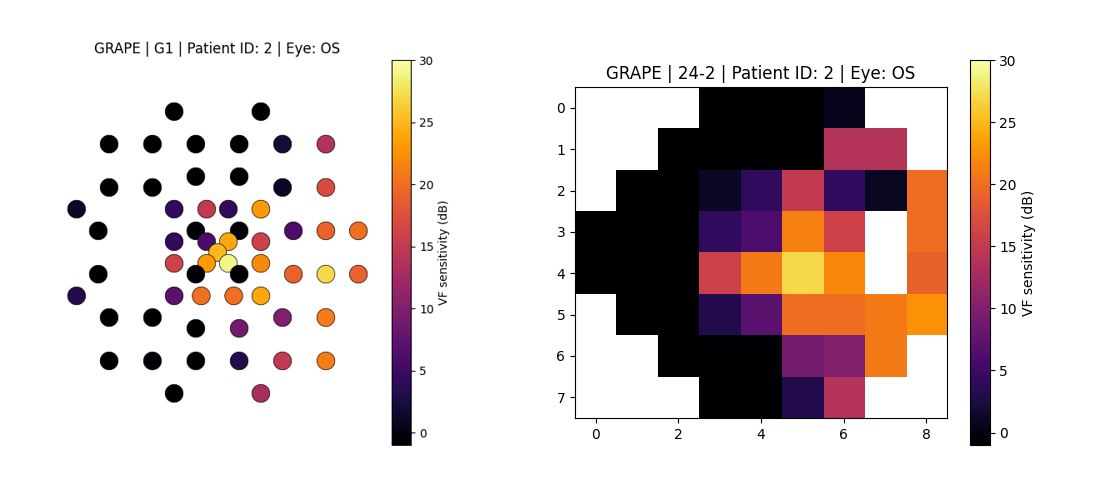
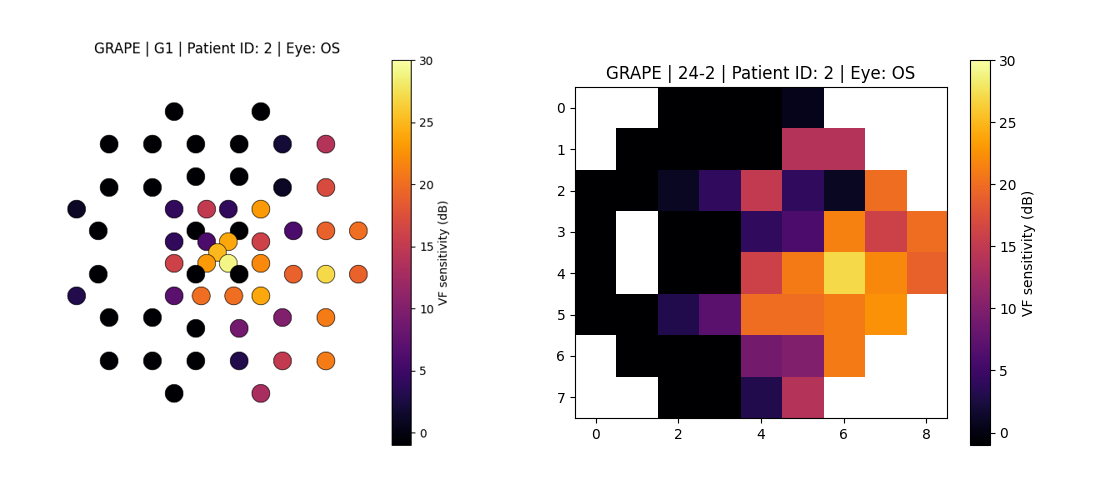
fixed laterality

Changed region(s): [[0.5255, 0.15, 0.8655, 0.84]]

diff --git a/vf_test_visualizer.py b/vf_test_visualizer.py
@@ -34,10 +34,20 @@ def visualize_vf(row_id):
     eye = entry.get("Laterality", "NA")
     img = entry.get("FundusImage", "NA")
     hvf = np.array(entry["hvf"], dtype=float)
+    print(hvf)
 
     # Flip horizontally for left eyes
     if eye.upper() == "OS":
-        hvf = np.fliplr(hvf)
+        flipped_hvf = hvf.copy()
+
+        for r in range(hvf.shape[0]):
+            mask = hvf[r] != 100
+            # Extract indices of non-100 positions
+            idx = np.where(mask)[0]
+            # Flip the values among these indices
+            flipped_hvf[r, idx] = hvf[r, idx[::-1]]
+        
+        hvf = flipped_hvf
 
     # Set padding (100) to NaN for white
     hvf_masked = np.where(hvf == 100, np.nan, hvf)
@@ -189,12 +199,12 @@ def visualize_old_vf(row_idx, grape_xlsx="data/vf_tests/grape_data.xlsx", sheet=
 #    print_vf(entry)
 
 if __name__ == '__main__':
-    id = 6
+    fundus_id = 15
     # Old heatmap of specific entry row id
-    old_pid, old_eye = visualize_old_vf(id)
+    old_pid, old_eye = visualize_old_vf(fundus_id)
 
     # Heatmap of a specific entry row id
-    new_pid, new_eye = visualize_vf(id)
+    new_pid, new_eye = visualize_vf(fundus_id)
 
     # Save heatmaps side by side
     image1 = Image.open(f"./data/vf_tests/visuals/GRAPE_G1_ID_{int(old_pid)}_EYE_{old_eye}.png")
